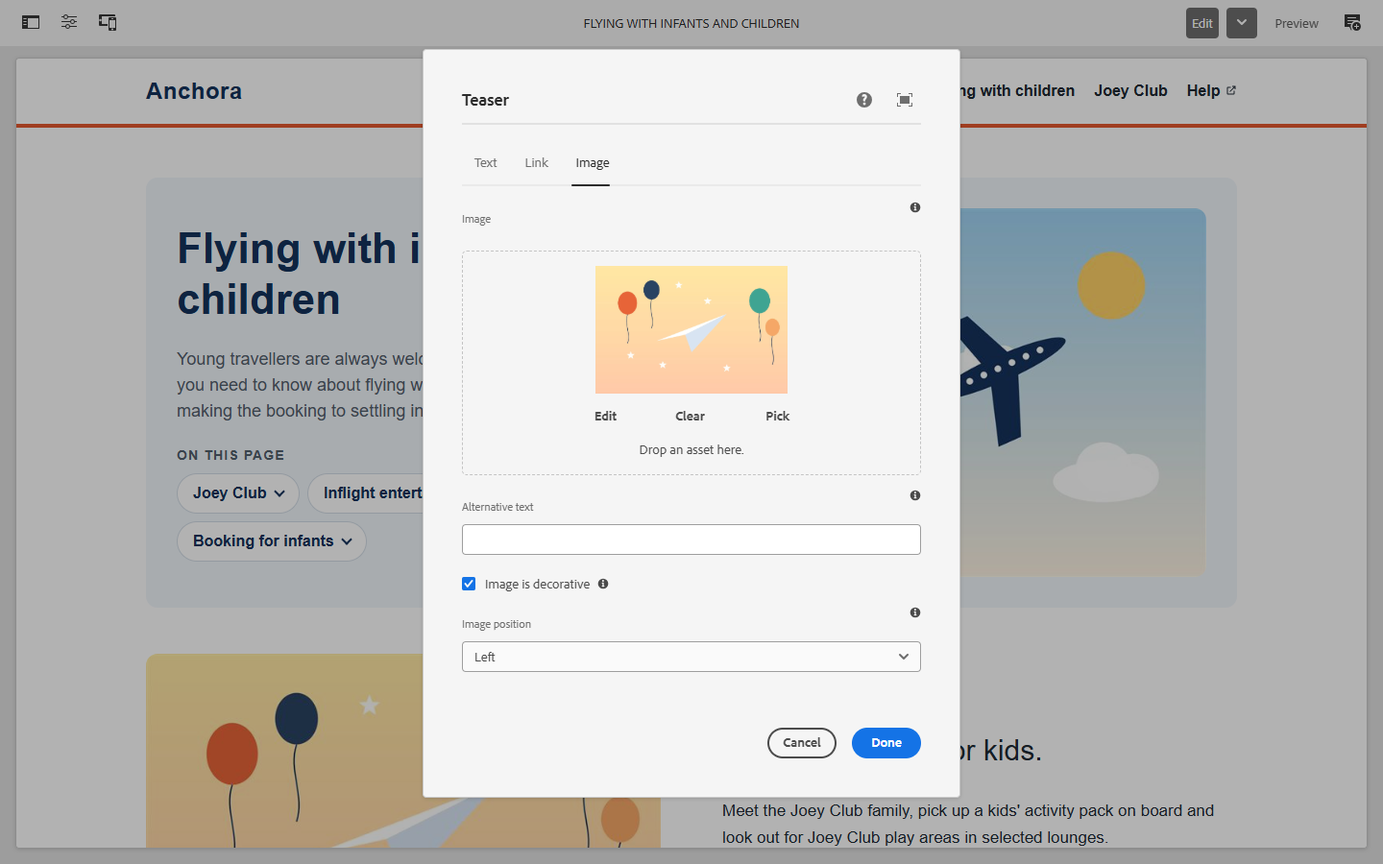
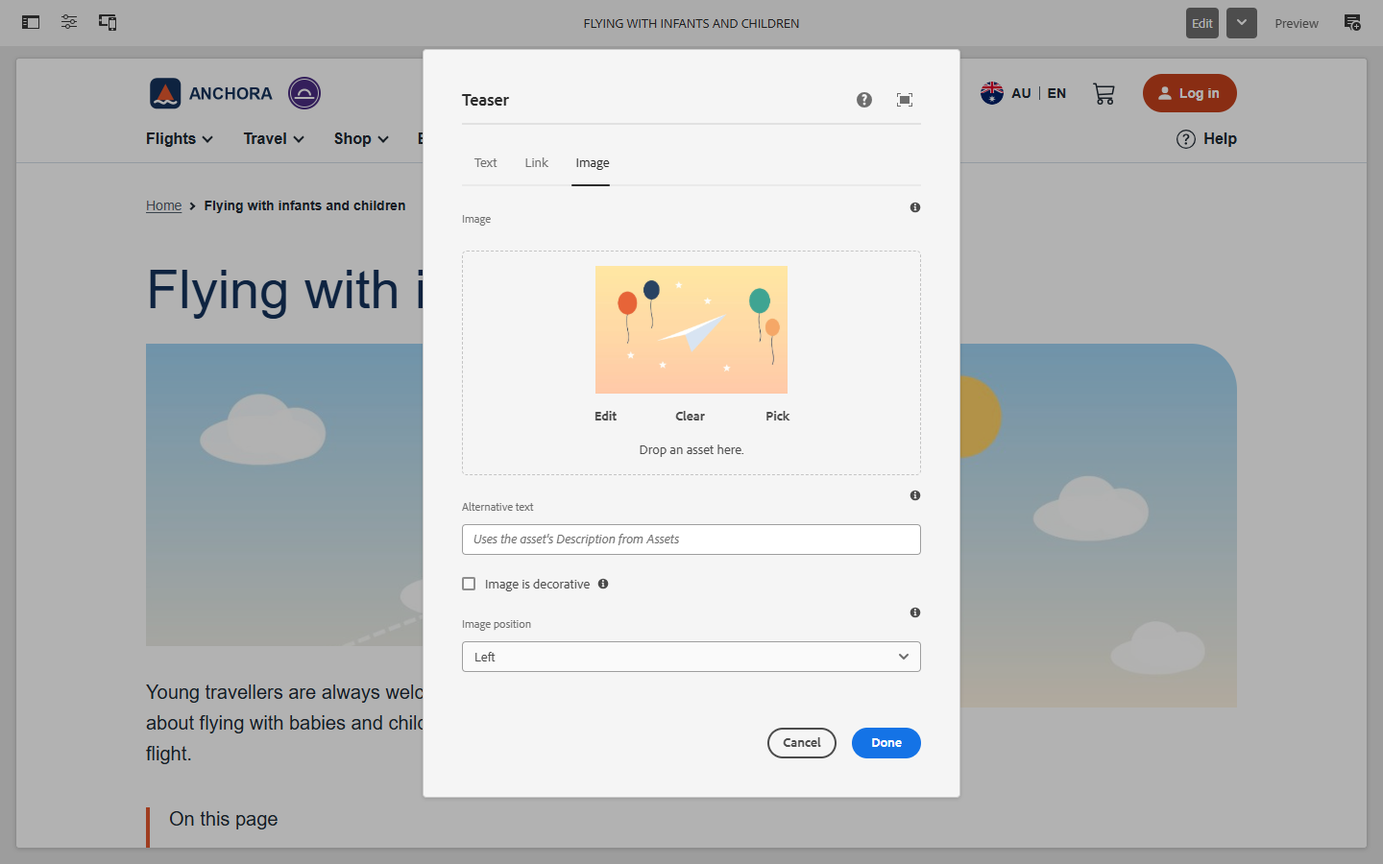
Fix authoring issues: decorative alt toggle, anchor IDs, accordion link hint, header labels and Help row
- Add the author-only anchora.dialog clientlib: hide Alternative text while
  Image is decorative is ticked (hero and teaser dialogs).
- Turn spaces in the teaser Anchor ID and hero jump-link anchors into hyphens
  (Links.anchorId), as Core Components do; add tests.
- Explain in the accordion Items tab where answer links are edited.
- Label header fields that are screen-reader only or shown only below 1024 px.
- Move Help out of the menu list so it stays on the first navigation row;
  long labels push the last menus to a second row instead.
- Ship the example teasers with Image is decorative unticked.
- Update README, AUTHORING, copilot-instructions and the teaser dialog screenshot.

diff --git a/ui.apps/src/main/content/jcr_root/apps/anchora/components/header/header.html b/ui.apps/src/main/content/jcr_root/apps/anchora/components/header/header.html
@@ -38,7 +38,7 @@
             <!--/* Hidden until the header script runs: without JavaScript the navigation is always shown. */-->
             <button class="cmp-header__toggle" type="button" aria-expanded="false" hidden>${header.menuLabel}</button>
             <nav class="cmp-header__nav" aria-label="${header.navLabel}">
-                <ul class="cmp-header__menus">
+                <ul class="cmp-header__menus" data-sly-test="${header.menus}">
                     <li class="cmp-header__menus-item" data-sly-repeat.menu="${header.menus}">
                         <!--/* Elements with the same name form an exclusive group: opening one menu closes the other. */-->
                         <details class="cmp-header__menu" name="cmp-header-menu">
@@ -53,10 +53,9 @@
                             </ul>
                         </details>
                     </li>
-                    <li class="cmp-header__menus-item cmp-header__menus-item--help" data-sly-test.help="${header.helpLink}">
-                        <a class="cmp-header__help" href="${help.href}">${help.label}</a>
-                    </li>
                 </ul>
+                <!--/* Outside the list, so on desktops a long label never pushes Help onto a row of its own. */-->
+                <a class="cmp-header__help" data-sly-test.help="${header.helpLink}" href="${help.href}">${help.label}</a>
             </nav>
         </sly>
     </div>

diff --git a/ui.frontend/src/main/webpack/components/_header.scss b/ui.frontend/src/main/webpack/components/_header.scss
@@ -242,8 +242,15 @@ $icon-close: "M2.146 2.854a.5.5 0 1 1 .708-.708L8 7.293l5.146-5.147a.5.5 0 0 1 .
 
 //== Navigation
 
+// Desktop: the menus on the left, continuing on a second row if they must, and Help at the right of the first row.
 .cmp-header__nav {
     grid-area: nav;
+
+    @include desktop-up {
+        display: flex;
+        align-items: flex-start;
+        column-gap: 28px;
+    }
 }
 
 @media (max-width: $bp-desktop - 1px) {
@@ -264,18 +271,13 @@ $icon-close: "M2.146 2.854a.5.5 0 1 1 .708-.708L8 7.293l5.146-5.147a.5.5 0 0 1 .
     }
 }
 
-// Phones and tablets: a list of menus that open in place.
-.cmp-header__menus-item {
+// Phones and tablets: a list of menus that open in place, then Help.
+.cmp-header__menus-item,
+.cmp-header__help {
     border-top: 1px solid $color-border;
 
     @include desktop-up {
         border-top: 0;
-    }
-}
-
-.cmp-header__menus-item--help {
-    @include desktop-up {
-        margin-left: auto;
     }
 }
 
@@ -392,5 +394,11 @@ $icon-close: "M2.146 2.854a.5.5 0 1 1 .708-.708L8 7.293l5.146-5.147a.5.5 0 0 1 .
 
     &:hover {
         text-decoration: underline;
+    }
+
+    @include desktop-up {
+        flex-shrink: 0;
+        margin-left: auto;
+        white-space: nowrap;
     }
 }

diff --git a/ui.apps/src/main/content/jcr_root/apps/anchora/clientlibs/clientlib-dialog/js/decorative-image.js b/ui.apps/src/main/content/jcr_root/apps/anchora/clientlibs/clientlib-dialog/js/decorative-image.js
@@ -1,0 +1,27 @@
+/*
+ * Hero and Teaser dialogs: hides "Alternative text" while "Image is decorative" is ticked,
+ * because the page ignores it then. The text is kept, so unticking the box shows it again.
+ */
+(function (document, $, Coral) {
+    "use strict";
+
+    var CHECKBOX = "coral-checkbox.anchora-decorative";
+
+    function toggleAlt(checkbox) {
+        $(checkbox).closest("form").find("[name='./alt']")
+            .closest(".coral-Form-fieldwrapper").toggle(!checkbox.checked);
+    }
+
+    $(document).on("foundation-contentloaded", function (event) {
+        $(event.target).find(CHECKBOX).each(function () {
+            var checkbox = this;
+            Coral.commons.ready(checkbox, function () {
+                toggleAlt(checkbox);
+            });
+        });
+    });
+
+    $(document).on("change", CHECKBOX, function () {
+        toggleAlt(this);
+    });
+}(document, Granite.$, Coral));

diff --git a/core/src/test/java/com/anchora/aem/core/models/impl/HeroImplTest.java b/core/src/test/java/com/anchora/aem/core/models/impl/HeroImplTest.java
@@ -53,6 +53,7 @@ class HeroImplTest {
         context.create().resource(hero, "jumpLinks/item1", "label", "Booking for infants",
                 "anchor", "booking-for-infants");
         context.create().resource(hero, "jumpLinks/item2", "label", "No anchor");
+        context.create().resource(hero, "jumpLinks/item3", "label", "Child fares", "anchor", " # Child  fares ");
 
         Hero model = adapt(hero);
 
@@ -62,10 +63,11 @@ class HeroImplTest {
         assertNotNull(model.getImage());
         assertEquals("A paper plane", model.getImage().getAlt());
         List<LinkItem> links = model.getJumpLinks();
-        assertEquals(2, links.size());
+        assertEquals(3, links.size());
         assertEquals("Joey Club", links.get(0).getLabel());
         assertEquals("#joey-club", links.get(0).getHref());
         assertEquals("#booking-for-infants", links.get(1).getHref());
+        assertEquals("#Child-fares", links.get(2).getHref());
     }
 
     @Test

diff --git a/core/src/main/java/com/anchora/aem/core/models/impl/Links.java b/core/src/main/java/com/anchora/aem/core/models/impl/Links.java
@@ -60,6 +60,16 @@ final class Links {
     }
 
     /**
+     * Makes an authored ID safe to use as an HTML id and a "#" link target. An id cannot contain
+     * spaces, so they become hyphens ("Joey club" becomes "Joey-club"), as in the Core Components.
+     *
+     * @return the ID, or null when it is blank
+     */
+    static String anchorId(String id) {
+        return StringUtils.replace(StringUtils.normalizeSpace(StringUtils.trimToNull(id)), " ", "-");
+    }
+
+    /**
      * Reads a composite multifield ({@code item0}, {@code item1}...) with label, link and newTab
      * properties. Incomplete items are skipped.
      */

diff --git a/core/src/main/java/com/anchora/aem/core/models/impl/HeroImpl.java b/core/src/main/java/com/anchora/aem/core/models/impl/HeroImpl.java
@@ -65,7 +65,7 @@ public class HeroImpl implements Hero {
         for (Resource item : multifield.getChildren()) {
             ValueMap props = item.getValueMap();
             String label = StringUtils.trimToNull(props.get(Links.PN_LABEL, String.class));
-            String anchor = StringUtils.trimToNull(StringUtils.removeStart(
+            String anchor = Links.anchorId(StringUtils.removeStart(
                     StringUtils.trim(props.get(PN_ANCHOR, String.class)), "#"));
             if (label != null && anchor != null) {
                 links.add(new LinkItem(label, "#" + anchor, false));

diff --git a/core/src/test/java/com/anchora/aem/core/models/impl/TeaserImplTest.java b/core/src/test/java/com/anchora/aem/core/models/impl/TeaserImplTest.java
@@ -75,6 +75,12 @@ class TeaserImplTest {
     }
 
     @Test
+    void spacesInTheAnchorIdBecomeHyphens() {
+        assertEquals("Find-out-more", adapt("sling:resourceType", TeaserImpl.RESOURCE_TYPE,
+                "jcr:title", "T", "id", " Find  out more ").getId());
+    }
+
+    @Test
     void unknownImagePositionFallsBackToLeft() {
         assertEquals("left", adapt("sling:resourceType", TeaserImpl.RESOURCE_TYPE,
                 "fileReference", ASSET, "imagePosition", "top").getImagePosition());

diff --git a/core/src/main/java/com/anchora/aem/core/models/Teaser.java b/core/src/main/java/com/anchora/aem/core/models/Teaser.java
@@ -5,7 +5,7 @@ package com.anchora.aem.core.models;
  */
 public interface Teaser {
 
-    /** Optional HTML id, used as an "On this page" anchor target. */
+    /** Optional HTML id, used as an "On this page" anchor target. Spaces are replaced with hyphens. */
     String getId();
 
     String getTitle();

diff --git a/core/src/main/java/com/anchora/aem/core/models/impl/TeaserImpl.java b/core/src/main/java/com/anchora/aem/core/models/impl/TeaserImpl.java
@@ -92,7 +92,7 @@ public class TeaserImpl implements Teaser {
 
     @Override
     public String getId() {
-        return StringUtils.trimToNull(id);
+        return Links.anchorId(id);
     }
 
     @Override

diff --git a/README.md b/README.md
@@ -55,7 +55,7 @@ This repository rebuilds the [Qantas "Flying with infants and children"](https:/
    ```
 
    This single command does the following:
-   - compiles the `core` bundle and runs its 55 unit tests (the build stops if one fails);
+   - compiles the `core` bundle and runs its 56 unit tests (the build stops if one fails);
    - downloads Node and runs `npm ci` and the webpack production build in `ui.frontend`, then copies the client libraries into `ui.apps`;
    - packages everything into `all/target/anchora.all-1.0.0-SNAPSHOT.zip` and installs it on `localhost:4502` as `admin`/`admin`.
 
@@ -118,7 +118,7 @@ Only the modules below were changed. `ui.apps.structure`, `ui.config`, `all`, `i
 |---|---|---|
 | Root `pom.xml` | Pinned `aem.sdk.api`. Moved Node to v24.21.0 with its bundled npm. Removed the `junit-addons` test dependency. | Match the local SDK. Node 16 / npm 8 from the archetype are end of life. `junit-addons` was only used by the deleted sample tests. |
 | `core` | Removed the sample servlet, filter, listener, scheduler and HelloWorld model (and their tests). Added the models in `com.anchora.aem.core.models` (interfaces), `…models.impl` (implementations and helpers), and their tests. | All rendering logic lives in Sling Models behind interfaces (HB-05). |
-| `ui.apps` | Added `hero`, `teaser`, `header`, `footer` and `accordion-item`. Extended `accordion`. Added a favicon link to the page and XF page head. Removed `helloworld`. | The components the page needs (HB, TS, AC, PT). |
+| `ui.apps` | Added `hero`, `teaser`, `header`, `footer` and `accordion-item`. Extended `accordion`. Added the `anchora.dialog` clientlib (`clientlibs/clientlib-dialog`). Added a favicon link to the page and XF page head. Removed `helloworld`. | The components the page needs (HB, TS, AC, PT), and a dialog script that hides Alternative text while Image is decorative is ticked. |
 | `ui.content` | Template structure (including a Core breadcrumb) and policies. The Home, Flying with infants and children, Joey Club and Inflight entertainment pages. Header and footer experience fragments. Three DAM images, plus a placeholder logo, alliance badge and round flag (`/content/dam/anchora/brand`). Removed the sample asset. | The page ships with the code (EN-04), so a reviewer sees it after one install. |
 | `ui.frontend` | Site variables, base styles (skip link, focus, visually-hidden text), and component SCSS. Two small scripts: `components/header.ts` for the header menus, and `components/accordion.ts` for the accordion's "Expand all items" button. Removed unused sample styles and scripts. Fixed the `svgo` option in `webpack.prod.js`. | All CSS and JS ship as the `anchora.site` client library (PT-06). The accordion items open and close with the Core Components script. The two scripts are the only custom JavaScript (see [Design decisions](#design-decisions)). |
 
@@ -130,7 +130,7 @@ core/src/main/java/com/anchora/aem/core/models/
 ├── LinkItem.java, ResponsiveImage.java, LinkGroup.java, SocialLink.java   (simple value objects)
 └── impl/
     ├── HeroImpl, TeaserImpl, SectionAccordionImpl, AccordionItemImpl, HeaderImpl, FooterImpl  (Sling Models)
-    ├── Links.java             link resolution: internal page → .html, new tab → target + rel
+    ├── Links.java             link resolution: internal page → .html, new tab → target + rel; anchorId() turns spaces into hyphens
     └── ResponsiveImages.java  image helper: srcset from DAM renditions, alt text fallback, decorative flag
 ```
 
@@ -145,6 +145,7 @@ All components are in `ui.apps/src/main/content/jcr_root/apps/anchora/components
 | `anchora.site` | All site and component CSS, and the header menu and accordion "Expand all items" scripts, built from `ui.frontend` | Page policy (`clientlibs`) |
 | `anchora.dependencies` | Archetype runtime dependencies (JS, in the head) | Page policy (`clientlibsJsHead`) |
 | `anchora.base` | Embeds Core Components clientlibs, including `core.wcm.components.accordion.v1` (accordion JS and keyboard support), and the grid | `page/customheaderlibs.html`, `page/customfooterlibs.html` |
+| `anchora.dialog` | Author-only dialog script (`clientlib-dialog/js/decorative-image.js`): hides the **Alternative text** field while **Image is decorative** (`granite:class="anchora-decorative"`) is ticked. AEM has a show/hide helper for dropdowns but not for checkboxes. | `extraClientlibs` on the hero and teaser dialogs |
 
 ### Hero – `anchora/components/hero`
 
@@ -153,7 +154,7 @@ All components are in `ui.apps/src/main/content/jcr_root/apps/anchora/components
 | Build | Custom; no supertype |
 | Group | Anchora - Content |
 | Sling Model | `Hero` → `HeroImpl` (uses `ResponsiveImages`) |
-| Dialog | **Text**: Title (`./jcr:title`, required), Introduction (`./intro`). **Image**: Image (`./fileReference`, dragged from Assets), Alternative text (`./alt`), Image is decorative (`./isDecorative`). **On this page**: Heading (`./jumpLinksTitle`, default "On this page"), Jump links multifield (`./jumpLinks`) of Label (`./label`) and Anchor (`./anchor`). |
+| Dialog | **Text**: Title (`./jcr:title`, required), Introduction (`./intro`). **Image**: Image (`./fileReference`, dragged from Assets), Alternative text (`./alt`), Image is decorative (`./isDecorative`; hides Alternative text while ticked). **On this page**: Heading (`./jumpLinksTitle`, default "On this page"), Jump links multifield (`./jumpLinks`) of Label (`./label`) and Anchor (`./anchor`; a leading `#` is removed and spaces become hyphens). |
 | Policy | None needed |
 | Markup | `<h1>`, then the image (`<img srcset sizes width height fetchpriority="high">`), then the intro, then `<nav>` with the authored heading as its `aria-label` and `<h2>`, and a list of `#anchor` links. Shows the Core placeholder in the editor when there is no title (HB-06). The root gets `cmp-hero--with-image` or `cmp-hero--text-only`. |
 | Layout | A wide image (2:1 on phones, 3:1 from 768 px, `object-fit: cover`) with a large rounded top-right corner. When there is an image, the intro sits on a white panel that overlaps its bottom-left corner. The jump links have an accent bar on the left, a down arrow before each link, and two columns from 768 px. The source image should be about 3:1 and at least 2400 px wide (see [AUTHORING.md](AUTHORING.md#hero)). |
@@ -165,7 +166,7 @@ All components are in `ui.apps/src/main/content/jcr_root/apps/anchora/components
 | Build | Custom; no supertype (see [Design decisions](#design-decisions)) |
 | Group | Anchora - Content |
 | Sling Model | `Teaser` → `TeaserImpl` (uses `Links` and `ResponsiveImages`) |
-| Dialog | **Text**: Title (`./jcr:title`), Subtitle (`./subtitle`, plain text), Description (`./description`, rich text: bold, italic, link, lists), Anchor ID (`./id`). **Link**: Link target (`./linkURL`, a page or an external URL), Link label (`./linkLabel`), Open in a new tab (`./linkNewTab`), Show a "Back to top" link (`./backToTop`), Back to top label (`./backToTopLabel`, default "Back to top"). **Image**: Image (`./fileReference`), Alternative text (`./alt`), Image is decorative (`./isDecorative`), Image position (`./imagePosition`: `left`, the default, or `right`). |
+| Dialog | **Text**: Title (`./jcr:title`), Subtitle (`./subtitle`, plain text), Description (`./description`, rich text: bold, italic, link, lists), Anchor ID (`./id`; spaces become hyphens, as in Core Components). **Link**: Link target (`./linkURL`, a page or an external URL), Link label (`./linkLabel`), Open in a new tab (`./linkNewTab`), Show a "Back to top" link (`./backToTop`), Back to top label (`./backToTopLabel`, default "Back to top"). **Image**: Image (`./fileReference`), Alternative text (`./alt`), Image is decorative (`./isDecorative`; hides Alternative text while ticked), Image position (`./imagePosition`: `left`, the default, or `right`). |
 | Design dialog | Title heading level (`titleType`, H2–H6) |
 | Policy | `anchora/components/teaser/policy_1575031387650` "Content Teaser": `titleType=h2` (TS-02) |
 | Markup | Heading at the policy level (only H2–H6 are accepted; anything else falls back to H2), optional subtitle `<p>`, HTML description, link with an arrow icon, `rel="noopener noreferrer"` and visually hidden "(opens in a new tab)" text when opened in a new tab, and a lazy-loaded image. The root gets `cmp-teaser--image-left` or `cmp-teaser--image-right`. When ticked, a last `<a class="cmp-teaser__back-to-top" href="#top">` with an up-arrow icon. |
@@ -203,8 +204,8 @@ All components are in `ui.apps/src/main/content/jcr_root/apps/anchora/components
 | Build | Custom; no supertype. Used only inside the header experience fragment. |
 | Group | Anchora - Structure |
 | Sling Model | `Header` → `HeaderImpl` |
-| Dialog | **Logo**: Logo (`./fileReference`), Logo text (`./brandLabel`, default "Anchora"; the logo's alt text, or shown as text when there is no logo), Logo link (`./brandLink`), Partner badge (`./partner/fileReference`) and its alt text (`./partner/alt`). **Top links**: Region link (`./regionLink`), Flag (`./flag/fileReference`, decorative), Region (`./region`, for example "AU"), Language (`./language`, for example "EN"), Screen reader text (`./regionLabel`, default "Change region and language"), Cart link and label (`./cartLink`, `./cartLabel`, default "Cart"), Log in link and label (`./loginLink`, `./loginLabel`, default "Log in"). **Navigation**: Navigation name (`./navLabel`, default "Main", becomes the `<nav>` `aria-label`), Menu button label (`./menuLabel`, default "Menu"), Menus multifield (`./menus`: Menu label, and a nested Links multifield with Label, Link, Open in a new tab), Help link and label (`./helpLink`, `./helpLabel`, default "Help"). |
-| Markup | The logo and partner badge, then a list of the top links (region, cart, log in), then a "Menu" button, then one `<nav>`. Each menu is a `<details>`/`<summary>` with a list of links; Help is the last item. The cart is an icon whose name is its label in visually hidden text. Each part is left out when it has no link or content. |
+| Dialog | **Logo**: Logo (`./fileReference`), Logo text (`./brandLabel`, default "Anchora"; the logo's alt text, or shown as text when there is no logo), Logo link (`./brandLink`), Partner badge (`./partner/fileReference`) and its alt text (`./partner/alt`). **Top links**: Region link (`./regionLink`), Flag (`./flag/fileReference`, decorative), Region (`./region`, for example "AU"), Language (`./language`, for example "EN"), Screen reader text (`./regionLabel`, default "Change region and language"; visually hidden), Cart link and label (`./cartLink`, `./cartLabel`, default "Cart"; visually hidden), Log in link and label (`./loginLink`, `./loginLabel`, default "Log in"). **Navigation**: Navigation name (`./navLabel`, default "Main", becomes the `<nav>` `aria-label`), Menu button label (`./menuLabel`, default "Menu"; the button only shows below 1024 px), Menus multifield (`./menus`: Menu label, and a nested Links multifield with Label, Link, Open in a new tab), Help link and label (`./helpLink`, `./helpLabel`, default "Help"). The dialog labels of the hidden-text fields say they aren't shown on the page. |
+| Markup | The logo and partner badge, then a list of the top links (region, cart, log in), then a "Menu" button, then one `<nav>`. Inside the `<nav>`, each menu is a `<details>`/`<summary>` in a list, and Help is a separate link after the list. On desktop the `<nav>` is a flex row: Help doesn't shrink or wrap and stays at the right end of the first row, so with long labels the last menus move to a second row instead of Help. The cart is an icon whose name is its label in visually hidden text. Each part is left out when it has no link or content. |
 | Behaviour | Desktop (1024 px and wider): the menus sit in a row under the logo and open as dropdowns. Below 1024 px, the "Menu" button shows and hides the menus, which open as an accordion. Below 768 px the log in button is an icon. The menus share a `name`, so opening one closes the others, with no script. `header.ts` adds the "Menu" button, Escape to close (focus returns to the menu or button), and closing open menus on a click elsewhere. Without JavaScript, the menus are always shown. |
 | Policy | The XF template's root container ("XF Root") allows only `header` and `footer`. On the page, the XF component uses the "Page Header" policy, which renders it as `<header>`. |
 
@@ -246,7 +247,7 @@ root (container, locked)
 | Component | Choice | Reason |
 |---|---|---|
 | Hero | **Custom** | Core has no hero. Making a Core Teaser behave like a hero (H1, jump-link list, DAM alt fallback) would take more overrides than a small model does. |
-| Teaser | **Custom, built from scratch** (TS-04) | The brief needs a narrow set of features: a policy-driven heading, simple link handling with `noopener noreferrer`, DAM alt fallback and a decorative flag. Core Teaser v2 also brings actions, pre-titles, inheriting the title and image from the linked page, and image rendering through a delegated Core Image with its own servlet. That is a lot of behaviour to override or explain for one card. The custom model is about 150 lines with 14 tests. The policy property is called `titleType`, like Core's, so switching to the Core Teaser later wouldn't need a content migration for the heading level. Trade-off: no Core data layer or Style System options on this component. |
+| Teaser | **Custom, built from scratch** (TS-04) | The brief needs a narrow set of features: a policy-driven heading, simple link handling with `noopener noreferrer`, DAM alt fallback and a decorative flag. Core Teaser v2 also brings actions, pre-titles, inheriting the title and image from the linked page, and image rendering through a delegated Core Image with its own servlet. That is a lot of behaviour to override or explain for one card. The custom model is about 150 lines with 15 tests. The policy property is called `titleType`, like Core's, so switching to the Core Teaser later wouldn't need a content migration for the heading level. Trade-off: no Core data layer or Style System options on this component. |
 | Teaser image position | **One teaser with a dialog select**, not two components and not a Style System style | It is the same card either way, so a second component would only copy code. The side is a choice about each piece of content (for example, alternating cards down the page), so it belongs in the dialog next to the image rather than in the style menu, which is for site-wide looks set up by template authors. It is also a plain property that the model checks: anything other than `right` means `left`, and that is unit tested. |
 | Teaser "Back to top" | **A teaser option (checkbox and label)**, not a separate component, and a plain `href="#top"` link | On the reference page it closes each section, so it belongs to the card. Authors tick it per teaser instead of placing and lining up an extra component. Browsers scroll to the top of the page for `#top` without any JavaScript, and the site's smooth scrolling already turns off for users who prefer reduced motion. |
 | Accordion | **Extend Core Accordion v1** (AC-07) | Core already provides what is hard to get right: the panel-container editing (Items tab, "Select panel", insert and reorder), an accessible button/region pattern with full keyboard support, and the data layer. The extension only adds the section heading and intro and the "Expand all items" labels, and forces everything to start collapsed. Trade-off: `accordion.html` is a copy of Core's, so it must be compared again when Core is upgraded. |
@@ -271,12 +272,12 @@ mvn -pl core test          # unit tests only
 mvn clean install          # full build; also runs the tests and fails if any test fails (EN-03)
 ```
 
-There are 55 JUnit 5 tests using wcm.io AEM Mocks (`AppAemContext`), the Core Components AEM Mocks plugin, and Mockito:
+There are 56 JUnit 5 tests using wcm.io AEM Mocks (`AppAemContext`), the Core Components AEM Mocks plugin, and Mockito:
 
 | Test class | Tests | What it checks |
 |---|---|---|
-| `HeroImplTest` | 5 | Reads title, intro, image and jump links (with or without `#`, incomplete items skipped). Empty without a title. Renders with no image when the asset is missing. The jump-links heading is trimmed, and defaults to "On this page" when blank. |
-| `TeaserImplTest` | 14 | Reads authored content, including a trimmed subtitle. Image position defaults to left, and an unknown value falls back to left. Heading defaults to H2 without a policy, comes from the policy when set, and can't be made H1. New-tab external link has `noopener`. A link with no label isn't rendered. Back to top is off by default, uses a trimmed authored label, and falls back to "Back to top" when the label is blank. Empty, image-only and subtitle-only states. |
+| `HeroImplTest` | 5 | Reads title, intro, image and jump links (with or without `#`, spaces in the anchor become hyphens, incomplete items skipped). Empty without a title. Renders with no image when the asset is missing. The jump-links heading is trimmed, and defaults to "On this page" when blank. |
+| `TeaserImplTest` | 15 | Reads authored content, including a trimmed subtitle. Spaces in the Anchor ID become hyphens. Image position defaults to left, and an unknown value falls back to left. Heading defaults to H2 without a policy, comes from the policy when set, and can't be made H1. New-tab external link has `noopener`. A link with no label isn't rendered. Back to top is off by default, uses a trimmed authored label, and falls back to "Back to top" when the label is blank. Empty, image-only and subtitle-only states. |
 | `SectionAccordionImplTest` | 7 | Section heading and intro. Items, single-expansion and heading element are delegated to Core. All items start collapsed even when expanded items were saved. Exports its own resource type. Section fields are optional. The "Expand all" and "Collapse all" labels are trimmed and fall back to their defaults when blank. |
 | `AccordionItemImplTest` | 2 | Links are read in order, with internal pages getting `.html`, new-tab links getting `target`, and incomplete links skipped. An item without links has an empty list. |
 | `HeaderFooterImplTest` | 9 | Header defaults; logo, partner badge, flag, region and the cart and log in links; menus with nested links (incomplete menus skipped) and Help. Footer `{year}` replacement and the no-copyright case. Footer defaults; logo, back to top and acknowledgement; nested link columns (empty columns skipped); social links (unknown platforms and missing links skipped). |
@@ -300,9 +301,10 @@ They don't test HTL output, dialogs, policies, the template, CSS, or the Core ac
 - no horizontal scrolling at 375 px;
 - teaser images sit above the text at 375 px and on the chosen side at 768 px and 1280 px, and changing **Image position** in the dialog moves the image;
 - each teaser's "Back to top" link sits under both columns at the teaser's left edge at every width, and clicking it scrolls back to the top of the page;
-- the header has no horizontal scrolling at 375, 768, 1024 and 1280 px, keeps all six menus and Help on one row at 1024 px, opens one dropdown at a time, closes it with Escape (focus goes back to the menu) or a click elsewhere, and below 1024 px the "Menu" button shows the menus and updates `aria-expanded`; the tab order follows the visual order;
+- the header has no horizontal scrolling at 375, 768, 1024 and 1280 px, keeps all six menus and Help on one row at 1024 px, keeps Help on the first row (no wrapping, no horizontal scrolling) with a 34-character Help label at 1024, 1280 and 1440 px, opens one dropdown at a time, closes it with Escape (focus goes back to the menu) or a click elsewhere, and below 1024 px the "Menu" button shows the menus and updates `aria-expanded`; the tab order follows the visual order;
 - the footer shows two link columns on phones and four next to the logo on desktop, keeps the six social icons on one row at 375 px, gives each icon the platform name as its accessible name, and shows the focus outline when tabbing through its links;
-- every dialog opens, and each container allows only the expected components.
+- every dialog opens, and each container allows only the expected components;
+- ticking **Image is decorative** in the hero and teaser dialogs hides **Alternative text**, and unticking it shows the field again.
 
 `it.tests` and `ui.tests` (Cypress) are the archetype's defaults, and I didn't extend them.
 
@@ -338,7 +340,7 @@ Paths are shortened: `apps/…` means `ui.apps/src/main/content/jcr_root/apps/an
 | PT-06 | Met | All CSS and JS come from `ui.frontend` → `anchora.site`; no `style` attributes or `<script>` blocks in our HTL |
 | EN-01 | Met | [Archetype](#archetype); `archetype.properties` |
 | EN-02 | Met | `mvn clean install -PautoInstallSinglePackage` passes and installs. It was tested on my local SDK, which also hosts other projects, not on a brand-new instance. |
-| EN-03 | Met | `core/src/test/…/models/impl/*Test.java` (55 tests) cover every model |
+| EN-03 | Met | `core/src/test/…/models/impl/*Test.java` (56 tests) cover every model |
 | EN-04 | Met | `ui.content` ships the pages, experience fragments, template, policies, DAM images and logo |
 | EN-05 | Met | Commits on `feature/flying-infants-children`, merged to `main` through a pull request |
 | EN-06 | Met | Checked as listed under [Testing](#testing) |

diff --git a/AUTHORING.md b/AUTHORING.md
@@ -77,12 +77,12 @@ The large banner at the top of the page: the page heading, then a wide image wit
 | Text | **Title*** | The page heading. It's the only H1 on the page, so make it match what the page is about. Keep it short, for example "Flying with infants and children". |
 | Text | **Introduction** | One or two sentences under the image that say what the page covers. Plain text only. |
 | Image | **Image** | Drag an image in from the **Assets** tab of the side panel. Use a wide image (about **3:1**) at least **2400 pixels wide**. It fills the full width of the page content. Phones show a narrower slice (2:1), so they cut off the left and right edges, and the introduction covers part of the bottom-left corner. Keep the subject in the middle. Without an image, the introduction sits straight under the title. |
-| Image | **Alternative text** | A description of the image for people who can't see it. If you leave it empty, AEM uses the **Description** from the image's metadata in Assets. See [Images and alternative text](#images-and-alternative-text). |
-| Image | **Image is decorative** | Tick this if the image is only for decoration. Screen readers then skip it, and any alternative text is ignored. |
+| Image | **Alternative text** | A description of the image for people who can't see it. It isn't shown on the page: screen readers read it out, and you can check it with the browser's **Inspect** (the `alt` of the image). If you leave it empty, AEM uses the **Description** from the image's metadata in Assets. See [Images and alternative text](#images-and-alternative-text). |
+| Image | **Image is decorative** | Tick this if the image is only for decoration. Screen readers then skip it. While it is ticked, the **Alternative text** field is hidden and its text is ignored. |
 | On this page | **Heading** | The heading above the jump links, which screen readers also announce as the name of the link list. Leave it empty to use "On this page". |
 | On this page | **Jump links** | A short list of links to sections further down the page. Select **Add** for each link. Drag the handle to change the order. On tablets and larger screens the links are shown in two columns, filled top to bottom. |
 | On this page | › **Label** | The link text, for example "Joey Club". |
-| On this page | › **Anchor** | The **ID** of the section to jump to, for example `joey-club`. You can type it with or without `#`. The ID is set on the Teaser (**Anchor ID**) or the Accordion (**Properties** › **ID**). A link with a missing label or anchor isn't shown. |
+| On this page | › **Anchor** | The **ID** of the section to jump to, for example `joey-club`. You can type it with or without `#`, and spaces become hyphens. The ID is set on the Teaser (**Anchor ID**) or the Accordion (**Properties** › **ID**). A link with a missing label or anchor isn't shown. |
 
 ![Hero dialog, On this page tab](docs/images/dialog-hero-jump-links.png)
 
@@ -117,7 +117,7 @@ On tablets and larger screens the image and the text sit side by side. On phones
 | Text | **Title** | The card heading. You can't choose the heading level. The template sets it (H2 on this site), so headings stay in the right order. |
 | Text | **Subtitle** | Optional. One short line under the title, for example "A club made just for kids.". Plain text only. |
 | Text | **Description** | The card text. You can use bold, italic, links, and bulleted or numbered lists. Keep it to a short paragraph. |
-| Text | **Anchor ID** | Optional. A short ID so a Hero jump link can point to this card, for example `joey-club`. Use lower-case letters, numbers and hyphens, and don't reuse an ID on the same page. |
+| Text | **Anchor ID** | Optional. A short ID so a Hero jump link can point to this card, for example `joey-club`. It isn't shown on the page; it becomes the card's `id`, so `…/page.html#joey-club` scrolls to it. Use lower-case letters, numbers and hyphens, and don't reuse an ID on the same page. Spaces are turned into hyphens ("Find out" becomes `Find-out`), because an ID can't contain spaces. |
 | Link | **Link target** | Pick a page on this site, or type a full web address starting with `https://`. |
 | Link | **Link label** | The link text. Say where the link goes, for example "Find out about the Joey Club", not "Click here". **The link isn't shown while this is empty.** |
 | Link | **Open in a new tab** | Use only for other websites. Screen readers announce "(opens in a new tab)" for these links. |
@@ -144,7 +144,7 @@ A section heading and introduction, followed by a list of items that open and cl
 | Section | **Introduction** | Optional. A short paragraph under the heading. |
 | Section | **Expand all label** | Optional. The text of the button that opens every item. Leave it empty to show "Expand all items". |
 | Section | **Collapse all label** | Optional. The button's text once every item is open. Leave it empty to show "Collapse all items". |
-| Items | (list of items) | The item titles. See [Managing accordion items](#managing-accordion-items). |
+| Items | (list of items) | The item titles. The answers and their links aren't edited here: select an answer on the page and choose **Configure** › **Links**. See [Managing accordion items](#managing-accordion-items). |
 | Properties | **Single item expansion** | Tick this if only one item should be open at a time. Opening an item then closes the one that was open. Leave it unticked to let readers open several items. The **Expand all items** button only appears when this is unticked and there are at least two items. |
 | Properties | **Heading element** | Fixed at H3 so that item titles sit correctly under the section heading. |
 | Properties | **ID** | Optional. A short ID so a Hero jump link can point to this section, for example `booking-for-infants`. |
@@ -236,9 +236,9 @@ The header dialog has three tabs. Every part of the header is hidden when its fi
 | **Region and language: Link** | The page where readers choose their region and language. Leave it blank to hide the flag and codes. |
 | **Flag** | Optional. A round flag shown before the region code. Screen readers skip it, because the code says the same. |
 | **Region**, **Language** | Short codes shown as "AU \| EN". |
-| **Screen reader text** | Hidden text that says what the region link does. Defaults to "Change region and language". |
+| **Screen reader text (not shown on the page)** | Hidden text that says what the region link does. Only screen readers read it out, so you won't see it on the page. Defaults to "Change region and language". |
 | **Cart: Link** | Shows the cart icon. Leave it blank to hide the icon. |
-| **Cart: Screen reader text** | The icon has no visible text, so screen readers read this instead. Defaults to "Cart". |
+| **Cart: Screen reader text (not shown on the page)** | The icon has no visible text, so screen readers read this instead. Defaults to "Cart". |
 | **Log in button: Link**, **Label** | The red button at the top right. Leave the link blank to hide it. The label defaults to "Log in". On phones only the person icon shows. |
 
 ![Header dialog, Navigation tab with a nested list of links in each menu](docs/images/dialog-header-navigation.png)
@@ -247,10 +247,10 @@ The header dialog has three tabs. Every part of the header is hidden when its fi
 
 | Field | What it does |
 |---|---|
-| **Navigation name** | A name that screen readers announce for the menus, for example "Main". Defaults to "Main". |
-| **Menu button label** | The button that shows the menus on phones and tablets. Defaults to "Menu". |
+| **Navigation name (screen readers only)** | A name that screen readers announce for the menus, for example "Main". It isn't shown on the page. Defaults to "Main". |
+| **Menu button label (phones and tablets)** | The button that shows the menus on screens narrower than 1024 pixels. Desktops always show the menus, so the button is hidden there. Defaults to "Menu". |
 | **Menus** | Choose **Add** for each menu. Give it a **Menu label***, then add its **Links**: **Label***, **Link*** and **Open in a new tab**. Six short menus fit on one row on a desktop. Drag the handles to reorder menus or links. |
-| **Help link**, **Help label** | Shown with a question-mark icon at the end of the menus. Leave the link blank to hide it. The label defaults to "Help". |
+| **Help link**, **Help label** | Shown with a question-mark icon at the right end of the first menu row. Leave the link blank to hide it. The label defaults to "Help". A long label never wraps or drops to the next row; instead, the last menus move to a second row. |
 
 On phones and tablets, the menus are behind the **Menu** button and open one below the other:
 
@@ -334,11 +334,16 @@ Changes you make to the page later are only visible on the live site after you p
 | The teaser link is missing | Fill in **Link label** as well as **Link target**. |
 | A teaser has no "Back to top" link | Tick **Show a "Back to top" link under the teaser** on the **Link** tab. A label on its own doesn't show the link. |
 | A teaser image is above the text even though **Image position** is **Right** | That's expected on phones and narrow windows. The image moves to the side from tablet width up. |
-| A jump link doesn't scroll anywhere | The **Anchor** must exactly match the Teaser's **Anchor ID** or the Accordion's **ID** (without the `#`). |
+| A jump link doesn't scroll anywhere | The **Anchor** must exactly match the Teaser's **Anchor ID** or the Accordion's **ID** (without the `#`). Spaces become hyphens in both, so "Find out" matches `Find-out`. |
 | The Hero doesn't show on the published page | Give it a **Title**. |
 | The edges of the Hero image are cut off on a phone | That's expected: phones show the middle of the image. Choose an image with the subject in the middle. |
 | The breadcrumb shows the wrong title for a page | Change the page's **Navigation Title** in Page Properties. |
 | An image has no description for screen readers | Fill in **Alternative text**, or the image's **Description** in Assets, or tick **Image is decorative**. |
+| I typed **Alternative text** but can't see it on the page | That's expected: only screen readers read it out. Check it with the browser's **Inspect** (the image's `alt`). If it is still empty there, untick **Image is decorative**. |
+| The **Alternative text** field has disappeared from the dialog | **Image is decorative** is ticked. Untick it to show the field again. |
+| An accordion answer has no **Links** tab | The item was added before the Accordion item component existed, or as a plain Text component. Remove the item and add it again from the **Items** tab, choosing **Accordion item**. |
+| The region's screen reader text or the navigation name isn't on the page | That's expected: both are only read out by screen readers. |
+| The **Menu** button is missing on a desktop | That's expected: it only appears on screens narrower than 1024 pixels. |
 | Accordion items are all open in the editor | That's expected in Edit mode. Switch to **Preview** to see them closed. |
 | The **Expand all items** button is missing | That's expected in Edit mode, when **Single item expansion** is ticked, and when the accordion has only one item. |
 | The accordion's grey band is missing | Choose **Background › Tinted background** in the accordion's **Styles** (paintbrush) menu. |
@@ -346,7 +351,7 @@ Changes you make to the page later are only visible on the live site after you p
 | A header or footer change isn't live | Publish the experience fragment. |
 | A header menu is missing | Give it a **Menu label** and at least one link. A link needs both a **Label** and a **Link**. |
 | The flag, cart, log in button or Help is missing from the header | Fill in its **Link**. Each one is hidden when its link is empty. |
-| The header menus wrap onto two rows on a desktop | Shorten the menu labels or use fewer menus. Six short menus and Help fit on one row. |
+| The header menus wrap onto two rows on a desktop | Shorten the menu labels, the **Help label**, or use fewer menus. Six short menus and Help fit on one row. Help always stays at the right end of the first row. |
 | A footer column is missing | Give it a **Heading** or at least one link. A link needs both a **Label** and a **Link**. |
 | A social icon is missing | Choose a **Platform** and fill in the **Link**. |
 | The footer shows the logo text instead of the logo | Choose an image in **Logo** on the **General** tab. On the live site, also publish the image. |

diff --git a/.github/copilot-instructions.md b/.github/copilot-instructions.md
@@ -12,7 +12,7 @@ These rules apply to every change in this repository. Read `AGENTS.md` for the m
 
 - All rendering logic lives in Sling Models. HTL only reads getters; no business logic, string building or conditions beyond `data-sly-test` on a getter.
 - Each model has a public interface in `com.anchora.aem.core.models` and an implementation in `…models.impl`. Adapt from `SlingHttpServletRequest`, set `resourceType`, and use `DefaultInjectionStrategy.OPTIONAL` with sensible defaults.
-- Reuse the helpers `Links` (internal page → `.html`, new tab → `target="_blank"` and `rel="noopener noreferrer"`) and `ResponsiveImages` (srcset from `cq5dam.web.*` renditions, alt text falling back to `dc:description`, decorative flag). Don't add a second way of doing either.
+- Reuse the helpers `Links` (internal page → `.html`, new tab → `target="_blank"` and `rel="noopener noreferrer"`, `anchorId` for authored IDs with spaces turned into hyphens) and `ResponsiveImages` (srcset from `cq5dam.web.*` renditions, alt text falling back to `dc:description`, decorative flag). Don't add a second way of doing either.
 - To extend a Core Component, use the delegation pattern (`@Self @Via(type = ResourceSuperType.class)`), as `SectionAccordionImpl` does.
 - No new runtime dependencies without asking. Compile against the `aem-sdk-api` version pinned in the root `pom.xml`.
 
@@ -36,7 +36,7 @@ These rules apply to every change in this repository. Read `AGENTS.md` for the m
 
 ## Front end (`ui.frontend`)
 
-- All CSS comes from `ui.frontend` and ships as the `anchora.site` client library. No inline `style` attributes, no `<script>` blocks, no CSS or JS in `ui.apps` except Core clientlibs embedded in `anchora.base`.
+- All CSS comes from `ui.frontend` and ships as the `anchora.site` client library. No inline `style` attributes, no `<script>` blocks, no CSS or JS in `ui.apps` except Core clientlibs embedded in `anchora.base` and the author-only dialog scripts in `anchora.dialog` (`clientlibs/clientlib-dialog`, loaded with `extraClientlibs`).
 - SCSS is mobile-first. Use the variables and mixins in `site/_variables.scss` (`tablet-up`, `desktop-up`, `focus-ring`, `chevron`, `arrow-icon`, `arrow-link`). Component styles go in `components/_<name>.scss`. Check at 375 px and 1280 px with no horizontal scroll.
 - Class names follow Core's BEM style: `cmp-<component>__<element>--<modifier>`.
 - Icons are SVG data URIs used as CSS masks (`arrow-icon`, `chevron`, and the footer's `$social-icons` map), so they take the text colour. Keep the licence comment when copying an icon from an icon set.
